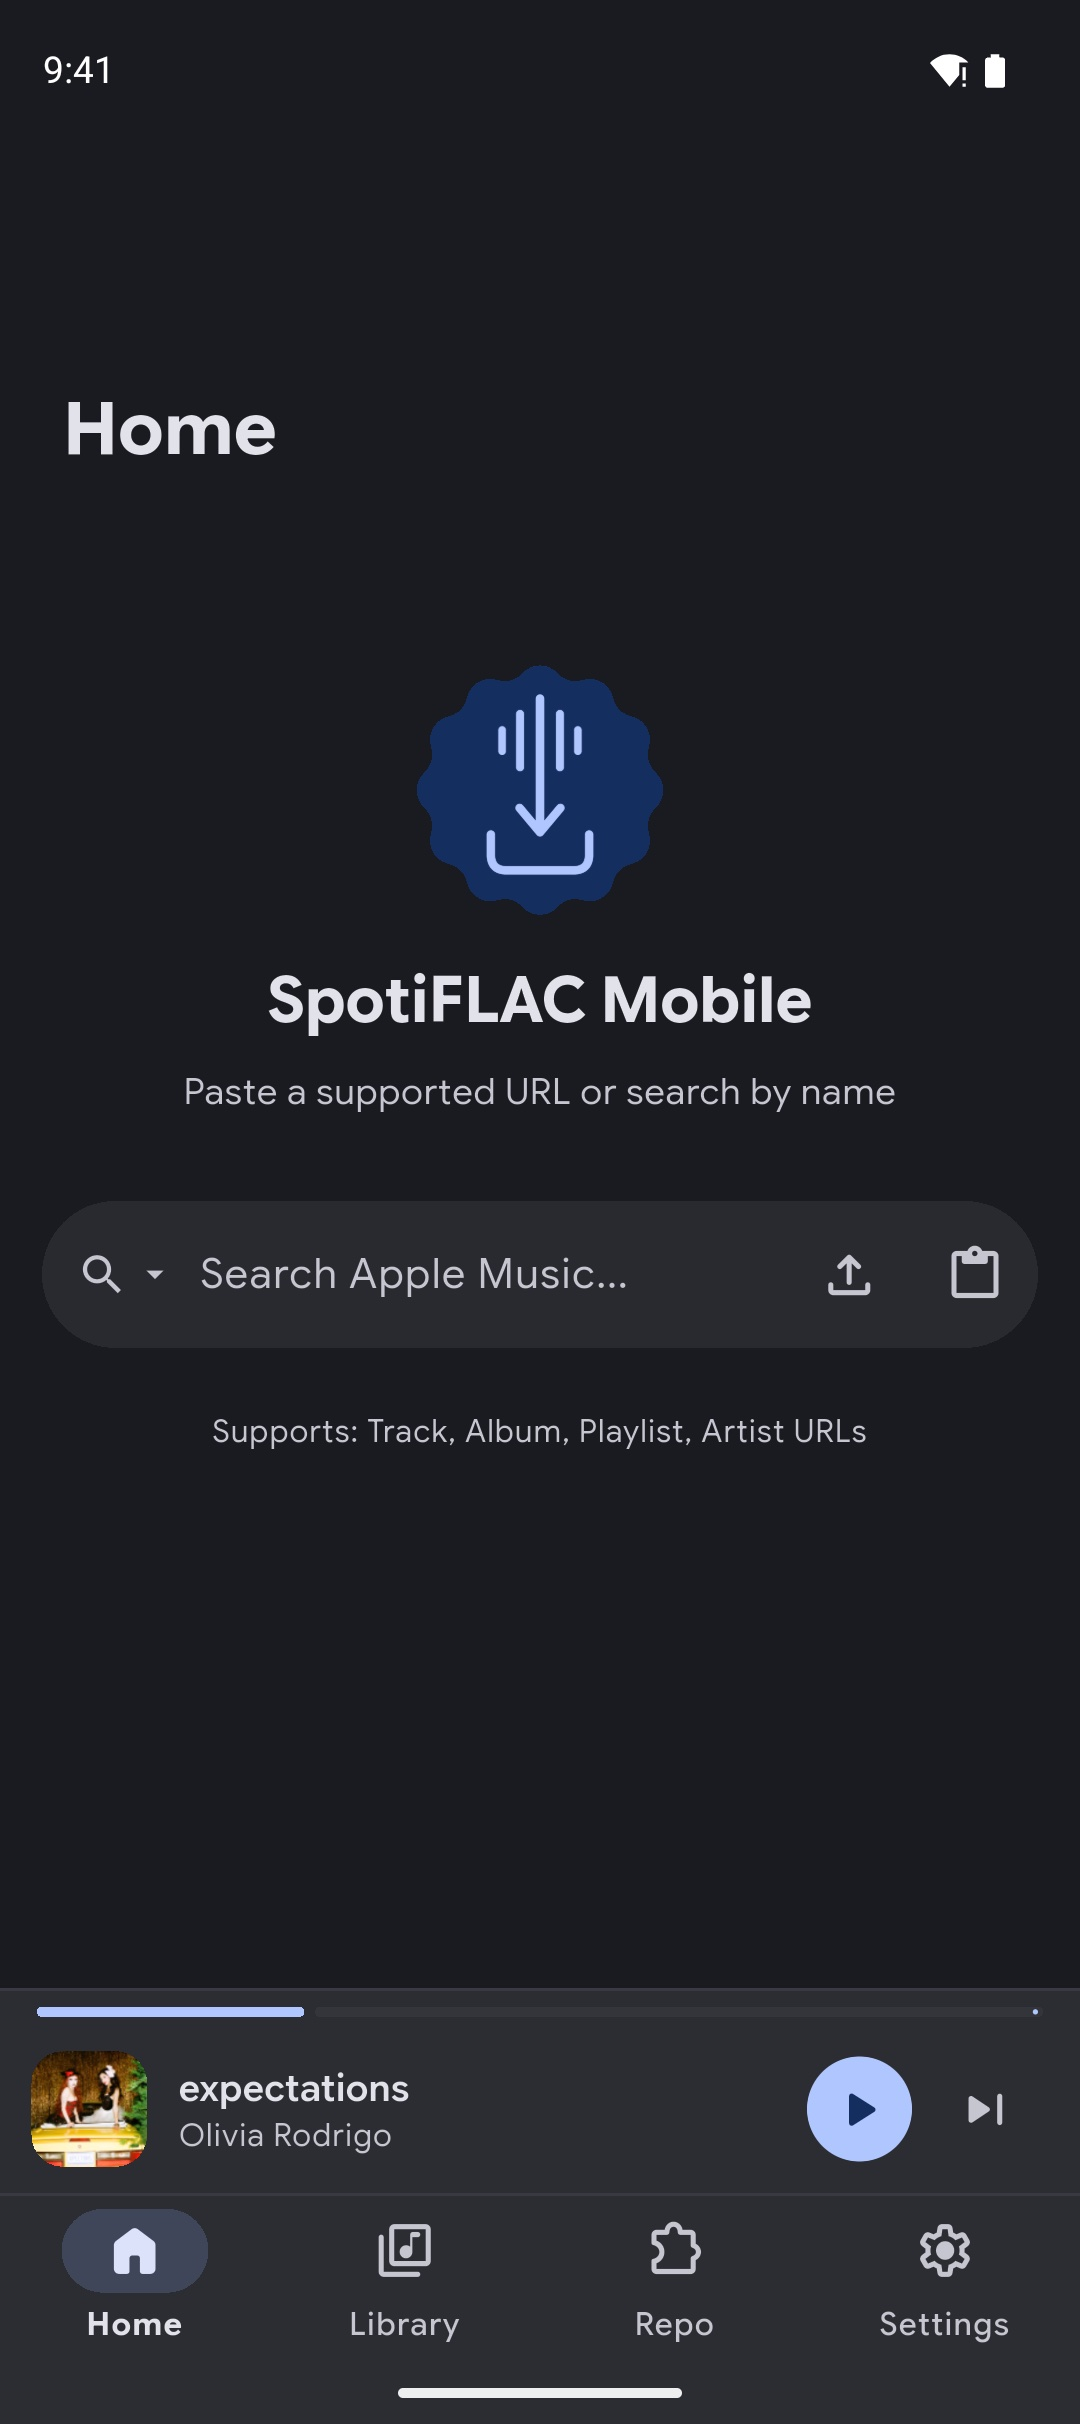
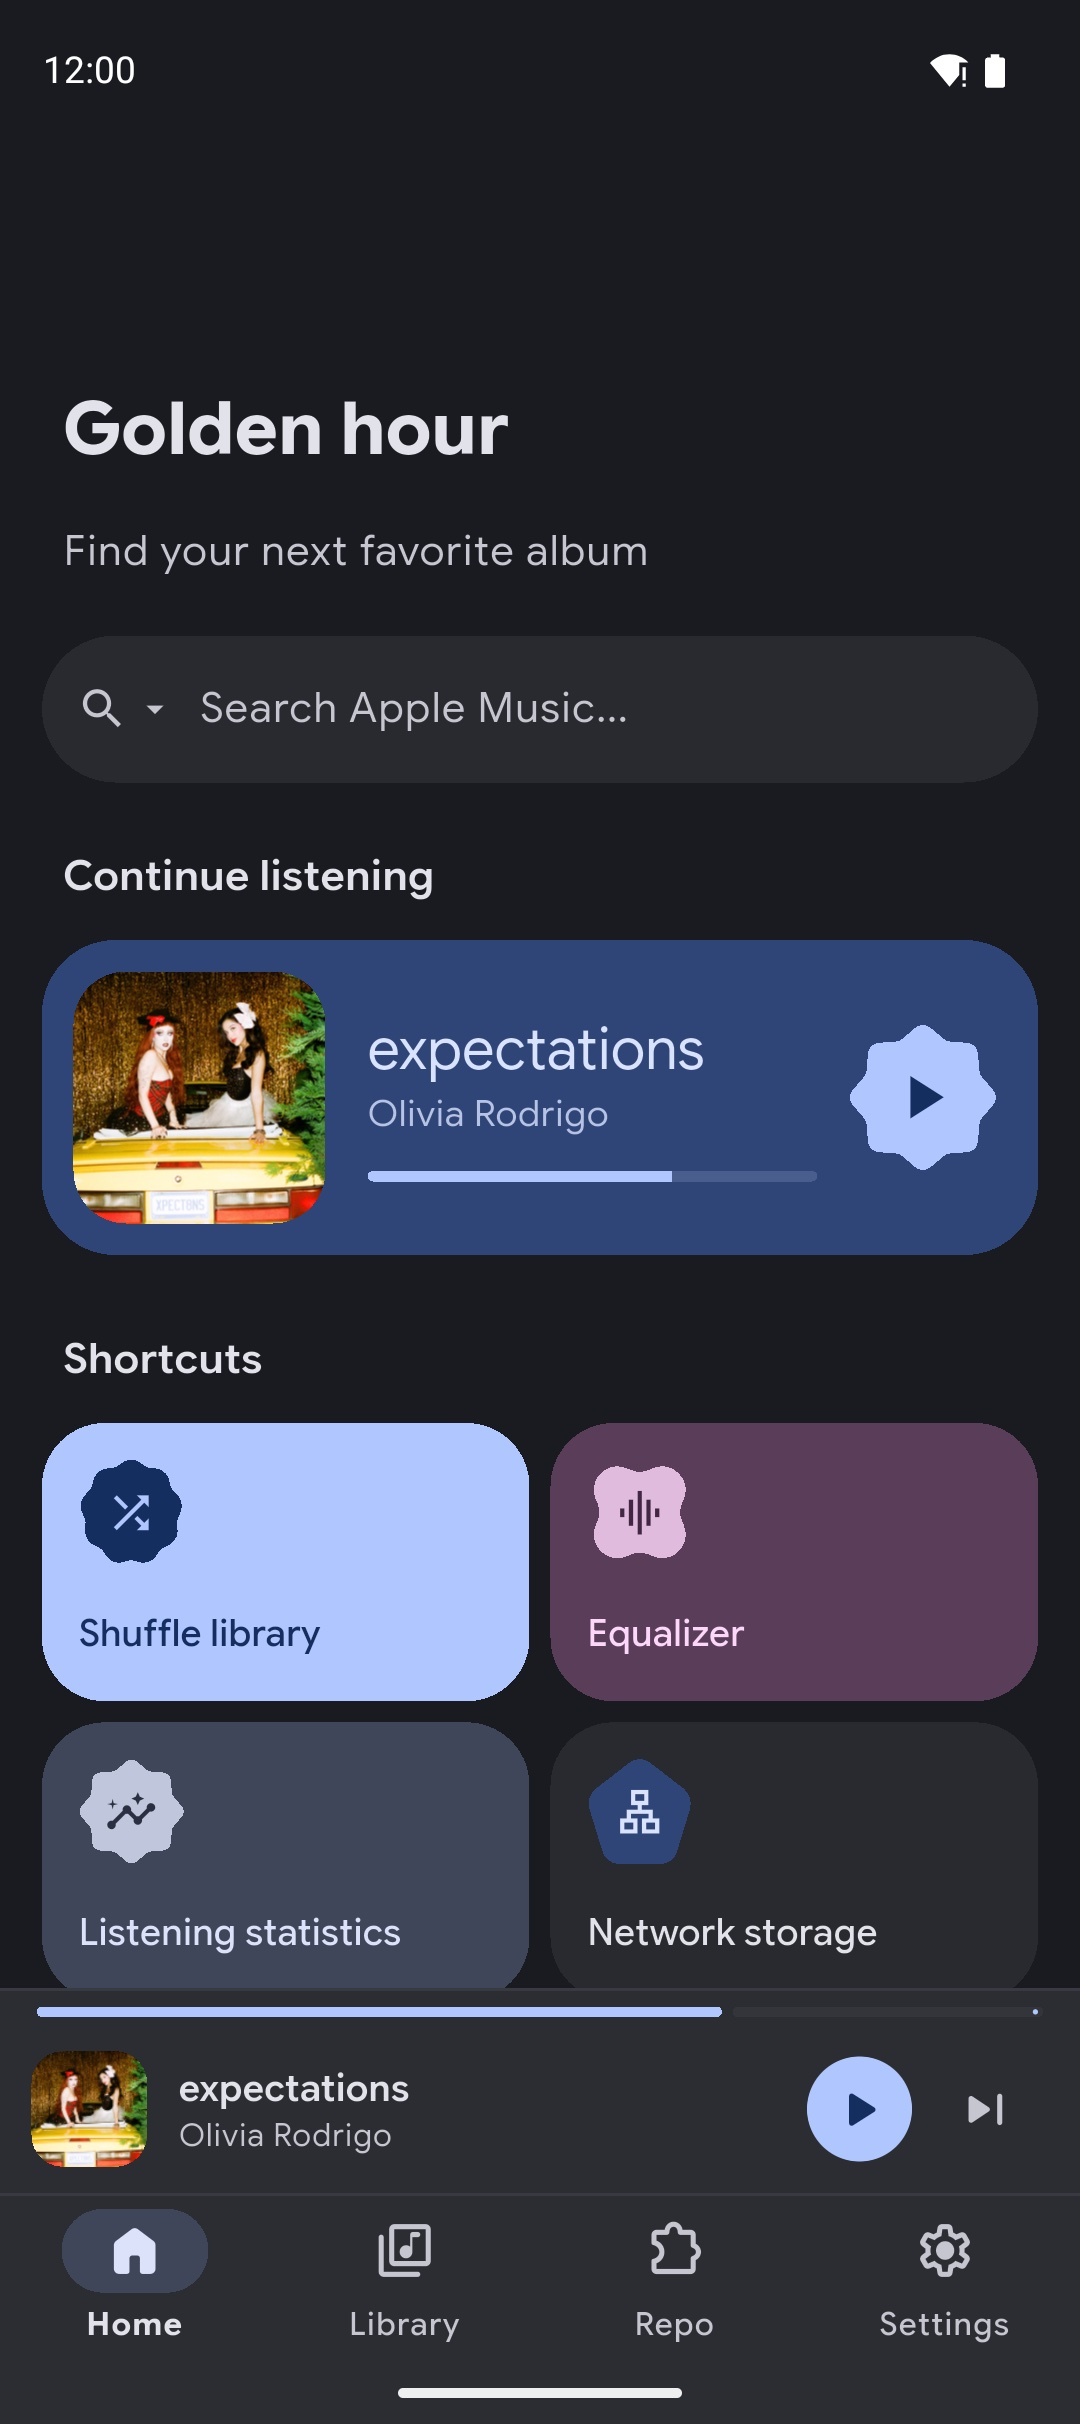
docs(readme): show the redesigned Home screen

diff --git a/README.md b/README.md
@@ -50,7 +50,7 @@
 ## Screenshots
 
 <p align="center">
-  <img src="assets/readme/1.jpg?v=3" width="200" alt="Home" />
+  <img src="assets/readme/1.jpg?v=4" width="200" alt="Home" />
   <img src="assets/readme/2.jpg?v=3" width="200" alt="Library" />
   <img src="assets/readme/3.jpg?v=3" width="200" alt="Now Playing" />
   <img src="assets/readme/4.jpg?v=4" width="200" alt="Equalizer" />
